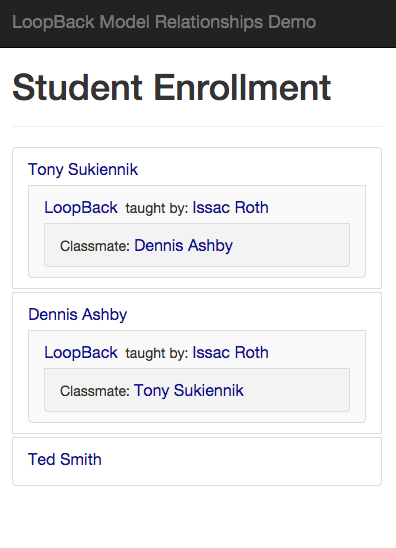
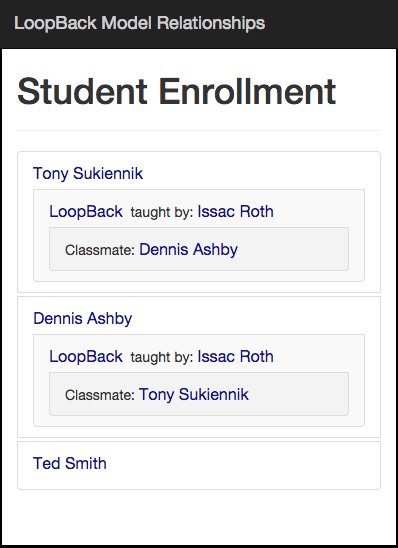
App Doc

Changed region(s): [[0.0, 0.031, 1.0, 1.0]]

diff --git a/client/index.html b/client/index.html
@@ -17,11 +17,11 @@
       <script src="https://oss.maxcdn.com/respond/1.4.2/respond.min.js"></script>
     <![endif]-->
   </head>
-  <body ng-app="app">
+  <body ng-app="app" style="border: 3px solid black; min-height:550px;">
     <div class="navbar navbar-inverse navbar-fixed-top" role="navigation">
       <div class="container">
         <div class="navbar-header">
-          <a class="navbar-brand" href="#">LoopBack Model Relationships Demo</a>
+          <a class="navbar-brand" href="#"><span style="color: #cccccc;">LoopBack Model Relationships</span></a>
         </div>
       </div>
     </div>

diff --git a/README.md b/README.md
@@ -512,6 +512,7 @@ You can start exploring the **[Source Code for the Student Enrollment App](https
 
 Coming soon...
 
+![Student Enrollment](https://github.com/tonysoft/LoopBackRelationships/blob/master/ScreenShots/StudentEnrollment.png)
 
 
 
